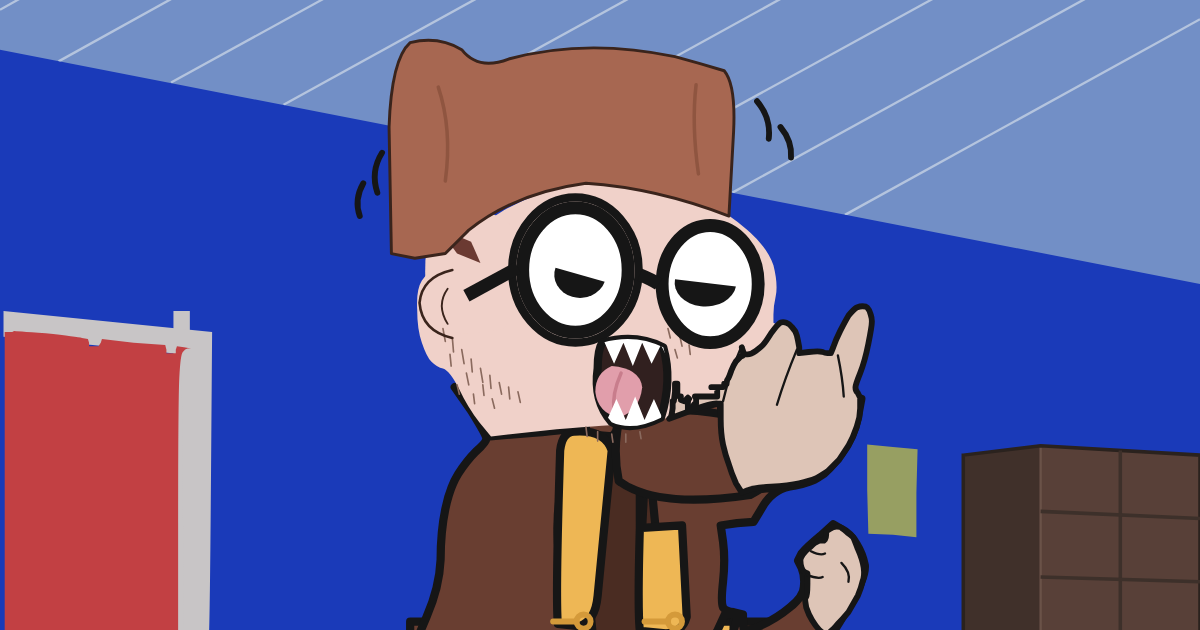
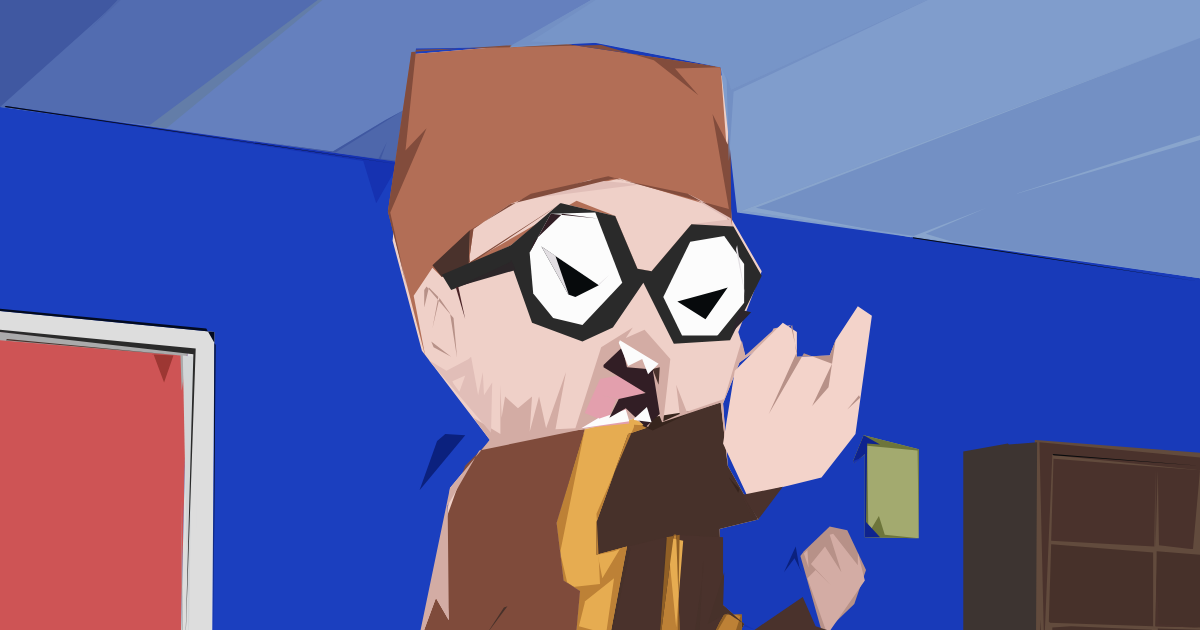
tipsy/ghost: MY.DRAW trace crushed to 9,362 B SVG

diff --git a/tipsy/ghost/index.html b/tipsy/ghost/index.html
@@ -4,18 +4,18 @@
 <meta charset="utf-8">
 <meta name="viewport" content="width=device-width,initial-scale=1">
 <title>Tipsy Turtles_Chapter 2 Snippet — on chain</title>
-<meta name="description" content="Tipsy Turtles_Chapter 2 Snippet redrawn as vector art and stored entirely inside its minting transaction — 14,355 bytes, no IPFS, no gateway.">
+<meta name="description" content="Tipsy Turtles_Chapter 2 Snippet redrawn as vector art and stored entirely inside its minting transaction — 13,695 bytes, no IPFS, no gateway.">
 <link rel="canonical" href="https://beacnpool.github.io/ABCDE/tipsy/ghost/">
 <meta property="og:type" content="website">
 <meta property="og:url" content="https://beacnpool.github.io/ABCDE/tipsy/ghost/">
 <meta property="og:title" content="Tipsy Turtles_Chapter 2 Snippet — on chain">
-<meta property="og:description" content="Tipsy Turtles_Chapter 2 Snippet redrawn as vector art and stored entirely inside its minting transaction — 14,355 bytes, no IPFS, no gateway.">
+<meta property="og:description" content="Tipsy Turtles_Chapter 2 Snippet redrawn as vector art and stored entirely inside its minting transaction — 13,695 bytes, no IPFS, no gateway.">
 <meta property="og:image" content="https://beacnpool.github.io/ABCDE/tipsy/ghost/og.png">
 <meta property="og:image:width" content="1200">
 <meta property="og:image:height" content="630">
 <meta name="twitter:card" content="summary_large_image">
 <meta name="twitter:title" content="Tipsy Turtles_Chapter 2 Snippet — on chain">
-<meta name="twitter:description" content="Tipsy Turtles_Chapter 2 Snippet redrawn as vector art and stored entirely inside its minting transaction — 14,355 bytes, no IPFS, no gateway.">
+<meta name="twitter:description" content="Tipsy Turtles_Chapter 2 Snippet redrawn as vector art and stored entirely inside its minting transaction — 13,695 bytes, no IPFS, no gateway.">
 <meta name="twitter:image" content="https://beacnpool.github.io/ABCDE/tipsy/ghost/og.png">
 <style>
 *{box-sizing:border-box}
@@ -100,7 +100,7 @@ footer{margin-top:44px;padding-top:16px;border-top:1px solid var(--line);
      <code>ipfs://QmZM9p5Kgqtj…</code> — and a pointer is only as permanent as
      whoever keeps paying to pin it.</p>
   <p class="sub">On the right is the same frame redrawn as vector art and written
-     <b>into the minting transaction itself</b>: 9,863 bytes of SVG, no gateway,
+     <b>into the minting transaction itself</b>: 9,362 bytes of SVG, no gateway,
      no pin, no bill.</p>
 
   <div class="vs">
@@ -123,9 +123,9 @@ footer{margin-top:44px;padding-top:16px;border-top:1px solid var(--line);
         <span class="tag chain">stored on Cardano</span><br>
         <b>Ours.</b> Decoded from the same base64 string that rides in the transaction
         below. Nothing was fetched to draw it.
-        <div class="bar"><i style="width:87.6%"></i></div>
-        <span style="color:var(--dim)">14,355 of 16,384 bytes
-        &middot; 88% of one transaction</span>
+        <div class="bar"><i style="width:83.6%"></i></div>
+        <span style="color:var(--dim)">13,695 of 16,384 bytes
+        &middot; 84% of one transaction</span>
       </div>
     </div>
   </div>
@@ -157,15 +157,15 @@ footer{margin-top:44px;padding-top:16px;border-top:1px solid var(--line);
     <tr><td>closes</td><td>24 Aug 2026 13:04 UTC</td></tr>
     <tr><td>asset name</td><td><code>GHOST&lt;8 hex&gt;</code> — derived from the
         UTxO you spend, so every mint is a distinct token</td></tr>
-    <tr><td>image</td><td><code>9,863 bytes</code> of SVG, base64 in CIP-25 metadata</td></tr>
-    <tr><td>you pay</td><td><b>~0.79 ADA</b> network fee, plus
+    <tr><td>image</td><td><code>9,362 bytes</code> of SVG, base64 in CIP-25 metadata</td></tr>
+    <tr><td>you pay</td><td><b>~0.76 ADA</b> network fee, plus
         <b>~1.18 ADA</b> min-UTxO that stays in your wallet</td></tr>
     <tr><td>creator takes</td><td><b>nothing</b> — there is no payment address in this
         transaction</td></tr>
   </table>
 
   <h2>How faithful this one is</h2>
-  <p class="sub">The hardest of the three. The bird is constructed (middle finger up, knuckles on the fist), not traced; temple hair, clipped pupils, clean hat. The silhouettes were traced from the colour regions of
+  <p class="sub">Traced from their frame in MY.DRAW, then crushed 110 KB → 9.4 KB so the transaction still fits. Same pose; the outlines are faceted on purpose. The silhouettes were traced from the colour regions of
      the original and simplified until they fit the budget; the linework was rebuilt. Held
      beside the original at full size the differences are visible — that is the honest
      trade for a picture that never needs anything else to survive.</p>
@@ -190,7 +190,7 @@ footer{margin-top:44px;padding-top:16px;border-top:1px solid var(--line);
     transaction · <a href="../">all three frames</a></footer>
 
 </div>
-<script id="art-src" type="image/svg+xml"><svg xmlns="http://www.w3.org/2000/svg" viewBox="0 0 1024 576"><defs><clipPath id="cc"><path d="M0 0h1024v262L0 62z"/></clipPath><path id="fp" d="M506 174Q507 173 526 174Q544 174 568 180Q592 187 606 194Q620 201 638 216Q655 231 660 246Q664 262 662 272Q660 281 660 288L660 295L662 296L664 296L664 346L663 396L644 400L625 405L625 414L625 422L621 410Q617 397 616 381L615 365L608 365Q600 365 575 374Q550 384 540 382Q531 381 475 386L419 392L409 380Q399 367 392 352Q384 336 378 334Q373 333 368 328Q364 324 360 312Q356 301 356 284Q355 267 360 259Q366 251 368 250L369 248L376 257L383 266L390 266Q397 266 402 262Q408 257 408 250L408 243L404 242L400 242L403 228Q406 213 430 199Q455 185 480 180Q506 174 506 174Z"/><path id="mp" d="M514 312Q542 304 566 316Q574 344 564 376Q540 388 522 380Q506 362 510 334Q510 318 514 312Z"/><clipPath id="mc"><use href="#mp"/></clipPath><clipPath id="ll"><ellipse cx="491" cy="250" rx="42" ry="50"/></clipPath><clipPath id="rl"><ellipse cx="606" cy="262" rx="38" ry="47"/></clipPath></defs><path d="M0 0h1024v576H0z" fill="#1a3ab9"/><path d="M0 566h181v10H0z" fill="#c8c5c6"/><path d="M0 566h152v10H0z" fill="#c24043"/><path d="M148 285h14v290h-14z" fill="#c8c5c6"/><path d="M0 0h1024v262L0 62z" fill="#728fc6"/><g fill="none" stroke="#b4c4de" stroke-width="2" clip-path="url(#cc)"><path d="M0 28 50 0"/><path d="M50 72 180 0"/><path d="M146 90 310 0"/><path d="M242 109 440 0"/><path d="M337 128 570 0"/><path d="M433 147 700 0"/><path d="M529 165 830 0"/><path d="M625 184 960 0"/><path d="M721 203 1024 36"/></g><path d="M3 286L3 285L92 294L181 303L180 432Q179 562 178 567L178 572L168 572L157 572L156 447L155 322L79 314L3 307L3 296Q3 286 3 286Z" fill="#c8c5c6"/><path d="M12 302Q12 302 39 304Q66 307 70 308L75 309L76 312L76 315L80 315L84 315L86 312L87 309L114 312L141 314L142 318L142 321L146 321L150 321L150 318L151 315L157 316L163 317L160 317Q158 317 156 320Q154 322 153 342Q152 362 152 466L152 571L78 571L4 571L4 437L4 303L8 303Q11 303 12 302Z" fill="#c24043"/><path d="M822 408 888 400 888 576 822 576Z" fill="#40302a"/><path d="M888 400 1024 408 1024 576 888 576Z" fill="#584038"/><path d="M888 400 888 576" fill="none" stroke="#6a5248" stroke-width="2"/><path d="M822 408 888 400 1024 408 1024 576 822 576Z" fill="none" stroke="#2a221e" stroke-width="3"/><g fill="none" stroke="#3d302a" stroke-width="3"><path d="M956 404 956 576"/><path d="M888 456 1024 462"/><path d="M888 512 1024 516"/></g><path d="M740 400L740 399L762 401L783 403L782 440L782 478L762 476L741 475L740 438Q740 400 740 400Z" fill="#979f62"/><g stroke="#161616" stroke-width="7" stroke-linejoin="round"><path d="M350 550h138v26H350z" fill="#693e31"/><path d="M486 550h32v26h-32z" fill="#eeb755"/><path d="M516 550h50v26h-50z" fill="#4a2c22"/><path d="M562 550h20v26h-20z" fill="#eeb755"/><path d="M578 550h28v26h-28z" fill="#4a2c22"/><path d="M602 550h28v26h-28z" fill="#eeb755"/><path d="M626 550h76v26h-76z" fill="#4a2c22"/><path d="M518 331L526 320L528 320L531 320L532 326L534 331L540 329L547 327L548 330L549 333L554 331L558 329L560 331Q563 333 564 356L564 378L590 370L615 362L616 380Q616 399 624 419L631 439L658 436Q686 432 694 428Q703 425 716 409Q729 393 732 376L735 360L732 376Q729 392 718 407Q707 422 700 426Q694 431 678 434Q661 436 652 450L643 465L629 466L615 468L617 482Q619 497 617 516Q615 534 617 538Q619 541 626 542L634 544L634 552L635 559L648 554Q662 548 674 538Q686 528 686 520Q687 511 684 504L681 498L684 492Q688 487 700 477L711 467L718 471Q726 475 731 484Q736 492 738 502Q739 513 724 538Q709 564 704 568Q699 572 661 572L623 572L626 558L630 544L624 544L619 543L612 558L605 572L591 572L577 572L576 568L576 563L571 563L566 563L565 568L564 572L540 572L517 572L520 546L524 521L520 521Q516 521 506 523L496 525L494 539L493 553L500 552L506 552L507 556L508 560L500 562L491 564L490 568L489 572L421 572L353 572L364 546Q375 521 376 497Q376 473 380 454Q384 435 391 424Q398 413 406 405Q415 397 415 394Q415 391 402 370L388 350L403 371L418 392L454 389Q491 386 492 384L493 383L496 384L499 386L489 410Q479 435 477 449Q475 463 476 482Q477 502 481 512L485 523L499 522L513 521L513 517L513 513L518 511Q523 509 526 499L530 489L519 490L508 491L511 464Q514 438 525 414Q536 390 546 387L555 384L554 378L553 371L545 375L537 379L536 374L535 370L528 373L520 376L524 368L527 360L536 362L545 364L548 361L551 358L550 352Q549 347 543 343Q537 339 523 340L509 342L518 331Z" fill="#693e31"/><path d="M500 378Q513 374 526 380Q528 388 522 392L500 390Z" fill="#693e31"/><path d="M508 394L552 394 560 476 550 562 506 564 498 478Z" fill="#4a2c22"/><path d="M490 388Q516 386 522 404L510 528Q508 550 494 554L476 552Q474 528 478 404Q480 388 490 388Z" fill="#eeb755"/><path d="M546 392L574 394 572 432 550 430 548 470L582 468 586 546Q582 560 568 560L546 558Q544 540 546 470Z" fill="#eeb755"/><g fill="none" stroke="#d49a3a" stroke-width="5" stroke-linecap="round"><path d="M472 550h20"/><circle cx="498" cy="550" r="6"/></g><g fill="none" stroke="#d49a3a" stroke-width="5" stroke-linecap="round"><path d="M550 550h20"/><circle cx="576" cy="550" r="6"/></g><path d="M530 372Q620 362 668 392Q676 424 640 442Q560 454 528 430Q522 400 530 372Z" fill="#693e31"/><use href="#fp" fill="#f0d1c9" stroke="none"/><path d="M370 200Q358 240 366 290Q380 312 430 300Q452 268 444 220Q420 190 370 200Z" fill="#f0d1c9" stroke="none"/><ellipse cx="491" cy="250" rx="54" ry="62" fill="#f0d1c9"/><path d="M374 214L402 226 410 244 390 236Z" fill="#6b3a32" stroke="none"/><path d="M378 300l2 11M386 308l1 12M394 318l2 12M402 326l1 11M410 334l2 12M418 340l1 11M426 346l2 10M434 350l1 10M442 354l2 9M384 322l1 10M398 338l2 10M412 348l1 9M390 348l2 8M404 356l1 8M420 360l2 8M500 384l1 8M510 388l0 8M522 390l1 7M534 390l0 7M546 388l1 6M570 300l2 8M580 306l2 9M588 314l1 8M576 318l2 7" fill="none" stroke="#8a6a5e" stroke-width="1.4" stroke-linecap="round"/><path d="M514 312Q542 304 566 316Q574 344 564 376Q540 388 522 380Q506 362 510 334Q510 318 514 312Z" fill="#31201f"/><path d="M522 332Q546 334 548 350Q546 370 528 376Q510 372 508 354Q508 338 522 332Z" fill="#e19eab" stroke="none"/><path d="M530 338Q522 356 524 370" fill="none" stroke="#c87d8c" stroke-width="3" stroke-linecap="round"/><g clip-path="url(#mc)"><path d="M516 312 524 330 532 312 540 332 548 312 556 330 564 314 570 326 572 308 514 306Z" fill="#fff" stroke="none"/><path d="M518 378 526 360 534 378 542 358 550 378 558 360 566 378 570 368 570 384 516 384Z" fill="#fff" stroke="none"/></g></g><path d="M334 236L332 128Q334 70 350 56Q374 50 394 62Q408 80 434 70Q500 52 576 68Q598 74 618 80Q628 92 626 132L622 204Q560 180 500 176Q440 184 400 216L380 236 354 240 334 236Z" fill="#a76751" stroke="#3a241c" stroke-width="2.5" stroke-linejoin="round"/><g fill="none" stroke="#8f5540" stroke-width="3" stroke-linecap="round"><path d="M374 94q12 36 6 80"/><path d="M594 92q-4 34 2 76"/></g><path d="M386 250Q360 256 358 278Q360 302 386 308" fill="none" stroke="#3a241c" stroke-width="2.2" stroke-linecap="round"/><g fill="none" stroke="#3a241c" stroke-width="1.6" stroke-linecap="round"><path d="M382 266Q372 280 382 296"/></g><ellipse cx="491" cy="250" rx="44" ry="52" fill="#fff"/><ellipse cx="606" cy="262" rx="40" ry="49" fill="#fff"/><g clip-path="url(#ll)" fill="#161616" stroke="none"><path d="M474 248A20 18 0 0 0 516 260Z"/></g><g clip-path="url(#rl)" fill="#161616" stroke="none"><path d="M576 258A26 20 0 0 0 628 264Z"/></g><g fill="none" stroke="#161616" stroke-width="11"><ellipse cx="491" cy="250" rx="45" ry="53"/><ellipse cx="606" cy="262" rx="41" ry="50"/><path d="M546 254q10 4 16 8"/><path d="M442 248 398 272"/></g><path d="M731 282Q734 281 736 281Q739 281 740 282Q742 284 743 288Q744 291 744 294Q744 298 741 313Q738 328 734 338Q730 348 730 350Q730 353 732 355Q733 357 734 359Q734 361 734 368Q734 376 731 384Q728 393 724 400Q720 406 716 412Q711 417 706 422Q700 426 696 428Q691 430 682 432Q673 434 658 435Q642 436 638 438L633 440L628 432Q624 423 622 416Q619 408 617 399Q615 390 615 377L615 364L612 364Q609 363 590 370L571 377L572 376Q573 375 574 368L574 362L574 362L575 362L576 354L576 347L577 347L578 347L578 352L578 357L580 358L581 358L581 360L581 361L584 362L586 362L586 360L587 359L588 360L588 360L588 360Q587 361 587 365L587 369L590 369L592 369L592 367L592 365L593 364L594 364L594 361L594 358L594 358L593 358L602 358L612 358L612 354L612 351L610 350L607 350L612 350L617 350L618 348L618 347L619 347L620 347L620 346Q620 344 621 343Q622 342 624 336Q626 331 628 328Q631 325 632 324L634 323L634 320L633 316L634 319L635 322L638 322Q641 322 645 319Q649 316 651 314Q653 312 658 304Q664 296 666 295Q668 294 671 295Q674 296 676 299Q679 302 680 306Q681 310 682 316L682 321L690 320Q699 319 702 320Q704 321 706 321L709 321L711 316Q713 310 717 302Q721 294 724 289Q728 284 731 282Z" fill="#dec5b7" stroke="#161616" stroke-width="5" stroke-linejoin="round"/><g fill="none" stroke="#161616" stroke-width="2" stroke-linecap="round"><path d="M632 317Q622 340 617 362"/><path d="M680 318Q670 342 663 365"/><path d="M715 323Q719 342 720 358"/></g><path d="M708 471Q711 469 714 469Q717 469 718 470Q720 471 723 474Q726 476 728 478Q729 480 732 488Q736 497 737 504Q738 511 736 516Q735 521 732 528Q728 535 724 542Q719 548 715 552Q711 557 708 559L706 561L704 560Q702 560 699 557Q696 554 693 549Q690 544 688 538Q687 532 687 531Q687 530 688 529Q689 528 689 518L689 509L687 508Q685 507 684 504Q683 501 683 498Q683 496 685 493Q687 490 692 486Q696 482 697 482Q698 481 700 481L703 481L704 480Q705 478 705 476L705 473L708 471Z" fill="#dec5b7" stroke="#161616" stroke-width="5" stroke-linejoin="round"/><g fill="none" stroke="#161616" stroke-width="2" stroke-linecap="round"><path d="M692 490q8 4 12 2"/><path d="M688 510q10 4 14 2"/><path d="M718 500q8 8 6 16"/></g><g fill="none" stroke="#161616" stroke-width="5" stroke-linecap="round"><path d="M326 150q-10 16-4 34"/><path d="M310 176q-8 14-3 28"/><path d="M646 106q12 14 10 32"/><path d="M666 128q10 12 9 26"/></g></svg></script>
+<script id="art-src" type="image/svg+xml"><svg xmlns="http://www.w3.org/2000/svg" viewBox="0 0 1024 576"><path d="M0 0L1024 0L1024 576L0 576L0 0Z" fill="#183ab9"/><path d="M0 0L539 0L438 60L351 66L335 225L360 319L418 395L384 436L375 521L352 576L0 576L0 0Z" fill="#1b3fbf"/><path d="M0 0L539 0L438 60L355 61L341 158L0 111L0 0Z" fill="#6580be"/><path d="M0 0L299 0L130 127L0 111L0 0Z" fill="#526cb0"/><path d="M0 0L124 0L0 111L0 0Z" fill="#4058a1"/><path d="M79 0L124 0L76 45L118 1L79 1L79 0ZM344 114L341 158L225 141L284 149L329 122L344 114Z" fill="#4e67ab"/><path d="M344 114L286 150L323 155L330 141L325 155L341 157L343 142L341 158L225 141L284 149L329 122L344 114Z" fill="#4058a1"/><path d="M299 0L142 129L127 127L296 1L299 0Z" fill="#637da8"/><path d="M286 147L300 139L286 147Z" fill="#89a5cd"/><path d="M0 303L160 319L154 576L0 576L0 303Z" fill="#ce5455"/><path d="M0 303L160 319L155 353L154 323L0 310L0 303Z" fill="#aaaaab"/><path d="M6 309L154 323L5 310L6 309ZM154 329L154 576L154 335L154 329Z" fill="#4a322c"/><path d="M129 322L148 323L140 346L131 322L129 322Z" fill="#9d3733"/><path d="M0 285L183 303L181 576L154 576L160 319L0 303L0 285Z" fill="#ddd"/><path d="M156 323L165 324L161 574L156 323L156 323Z" fill="#d2d5d7"/><path d="M155 561L155 446L156 562L155 561Z" fill="#aaaaab"/><path d="M0 301L167 317L158 576L165 322L0 303L0 301Z" fill="#2a2a2a"/><path d="M158 576L162 560L164 576L158 576ZM167 317L168 576L167 323L167 317Z" fill="#aaaaab"/><path d="M5 110L341 158L321 193L310 157L4 111L5 110Z" fill="#1632b1"/><path d="M5 110L341 160L4 111L5 110Z" fill="#070a0c"/><path d="M0 283L176 300L184 314L182 562L183 303L0 285L0 283Z" fill="#030b20"/><path d="M380 390L397 391L358 438L373 396L380 390Z" fill="#0b217e"/><path d="M476 56L620 85L624 206L650 251L630 303L636 323L675 297L631 329L617 364L621 417L647 463L614 471L617 536L635 552L623 576L352 576L375 521L384 436L418 395L360 319L335 225L351 66L468 56L476 56Z" fill="#efd0c8"/><path d="M476 56L615 77L625 214L590 211L556 251L544 249L525 204L479 193L436 229L377 256L369 248L353 272L363 324L331 200L351 66L468 56L476 56Z" fill="#b26e56"/><path d="M445 190L529 172L616 198L625 214L590 211L556 251L544 249L525 204L492 191L400 244L404 215L435 194L445 190Z" fill="#efd0c8"/><path d="M445 190L504 173L546 177L444 190L445 190ZM587 185L623 203L625 214L590 211L622 207L587 186L587 185Z" fill="#e1beb8"/><path d="M623 97L624 206L587 185L524 172L435 194L404 215L400 244L479 193L401 245L401 216L453 185L519 170L622 198L608 117L621 143L623 99L623 97ZM476 56L615 77L576 78L596 101L558 71L513 58L355 62L346 148L364 129L333 201L347 264L331 200L351 64L468 56L476 56Z" fill="#824c3c"/><path d="M401 216L400 245L377 256L369 246L400 217L401 216Z" fill="#4a322c"/><path d="M593 370L615 363L621 417L647 463L614 471L617 536L635 552L623 576L466 568L492 557L495 524L481 515L475 466L497 390L587 372L593 370Z" fill="#47312a"/><path d="M541 377L557 383L536 390L509 465L509 493L535 486L518 576L487 576L491 563L466 568L492 557L495 524L481 515L475 466L499 386L540 377L541 377Z" fill="#e6ac51"/><path d="M541 382L557 383L536 390L509 465L509 493L535 486L518 576L487 576L491 563L466 568L492 557L495 524L481 515L475 466L499 386L478 491L485 521L512 518L509 458L541 384L541 382Z" fill="#bd8136"/><path d="M499 533L524 513L515 576L491 576L512 559L494 554L499 534L499 533ZM529 488L514 513L510 493L524 490L529 488Z" fill="#e6ac51"/><path d="M541 377L519 383L540 377L541 377Z" fill="#e2dee2"/><path d="M577 476L617 478L617 536L635 552L623 576L562 576L575 476L577 476Z" fill="#4a322c"/><path d="M577 476L580 558L593 559L578 576L562 576L575 476L577 476Z" fill="#bd8136"/><path d="M569 478L583 481L577 555L570 484L569 478Z" fill="#e6ac51"/><path d="M577 476L580 558L593 559L578 576L580 476L569 478L562 576L575 476L577 476Z" fill="#905f25"/><path d="M618 544L633 544L633 562L623 576L602 576L614 551L618 544Z" fill="#bd8136"/><path d="M618 544L633 544L633 562L622 576L632 545L621 543L602 576L614 551L618 544Z" fill="#905f25"/><path d="M600 498L596 576L578 576L593 559L600 508L600 498ZM618 544L604 552L618 508L617 536L635 552L621 543L618 544Z" fill="#47312a"/><path d="M536 486L568 478L562 576L519 576L538 488L536 486Z" fill="#4a322c"/><path d="M560 375L593 370L557 387L548 383L559 374L560 375Z" fill="#37251d"/><path d="M559 374L548 383L559 375L559 374Z" fill="#e2dee2"/><path d="M635 443L644 465L634 444L635 443Z" fill="#4a322c"/><path d="M630 440L622 427L631 437L630 440Z" fill="#37251d"/><path d="M479 193L525 204L544 249L556 251L590 211L626 213L650 255L623 310L575 313L549 261L523 299L497 311L454 295L437 247L385 267L377 254L436 229L478 193L479 193Z" fill="#2a2a2a"/><path d="M612 306L582 306L566 273L589 226L618 221L635 245L635 278L613 305L612 306Z" fill="#fcfcfc"/><path d="M621 265L602 292L578 277L614 267L621 265Z" fill="#070a0c"/><path d="M632 284L641 286L624 304L631 285L632 284Z" fill="#2c252c"/><path d="M629 229L636 273L628 232L629 229Z" fill="#e2dee2"/><path d="M436 241L440 250L391 264L436 243L436 241Z" fill="#2c2629"/><path d="M452 235L470 202L508 201L531 261L497 297L472 291L455 270L452 236L452 235Z" fill="#fcfcfc"/><path d="M452 235L470 202L510 206L480 202L456 225L452 235Z" fill="#321e25"/><path d="M485 271L462 230L511 263L491 273L485 271Z" fill="#070a0c"/><path d="M485 271L462 230L509 261L474 238L485 270L485 271ZM511 262L520 254L511 263L511 262Z" fill="#e2dee2"/><path d="M355 576L372 530L383 549L378 470L397 417L419 395L499 386L475 466L481 515L495 524L492 557L465 566L491 563L487 576L355 576Z" fill="#7f4b3b"/><path d="M433 537L415 561L430 538L433 537Z" fill="#47312a"/><path d="M660 300L675 297L631 329L617 364L621 417L615 363L565 380L561 370L553 384L541 377L409 404L382 451L383 549L372 530L355 576L384 436L418 395L404 376L427 390L427 348L428 376L431 358L442 368L454 358L452 388L460 358L466 385L483 337L474 386L491 385L513 316L540 299L534 308L550 301L572 326L566 379L580 373L577 348L586 371L618 360L633 310L636 323L659 302L660 300Z" fill="#d3aca4"/><path d="M511 377L499 372L512 343L533 339L550 354L545 364L513 357L526 360L519 377L534 368L537 381L496 385L511 376L511 377Z" fill="#e39fad"/><path d="M511 377L534 369L537 379L496 385L511 376L511 377Z" fill="#fcfcfc"/><path d="M515 331L531 316L535 333L557 335L563 373L551 384L534 368L520 376L528 360L551 355L515 333L515 331Z" fill="#321e25"/><path d="M541 377L552 367L556 380L541 378L541 377Z" fill="#fcfcfc"/><path d="M555 335L563 333L562 348L557 335L555 335Z" fill="#4a322c"/><path d="M529 310L562 330L553 339L548 326L536 332L528 312L529 310Z" fill="#fcfcfc"/><path d="M402 324L408 357L412 337L413 357L420 346L419 389L366 327L381 336L400 326L402 324Z" fill="#e1beb8"/><path d="M386 345L397 340L392 354L387 347L386 345Z" fill="#efd0c8"/><path d="M391 264L397 292L389 265L391 264Z" fill="#492225"/><path d="M364 264L387 291L390 325L384 287L375 274L369 300L374 273L366 265L362 282L362 267L364 264ZM368 311L385 324L370 316L368 311Z" fill="#b79188"/><path d="M539 0L1024 0L1024 257L629 201L615 77L502 55L435 60L537 1L539 0Z" fill="#809dcc"/><path d="M631 200L1024 52L1024 257L638 200L631 200Z" fill="#7390c4"/><path d="M631 200L1024 52L645 197L777 222L842 197L790 219L816 227L638 200L631 200ZM1024 139L864 186L1024 135L1024 139Z" fill="#89a5cd"/><path d="M539 0L833 0L624 96L615 77L510 56L435 60L537 1L539 0Z" fill="#7795c8"/><path d="M539 0L453 55L476 56L435 59L537 1L539 0ZM833 0L626 98L622 157L620 85L624 96L831 1L833 0Z" fill="#7390c4"/><path d="M884 395L1024 406L1024 576L884 576L883 395L884 395Z" fill="#624b3d"/><path d="M1016 488L989 485L988 421L986 487L986 419L985 486L897 481L899 411L1024 421L1018 488L1016 488Z" fill="#4a322c"/><path d="M987 490L1024 493L1024 555L986 554L987 495L987 490Z" fill="#47312a"/><path d="M987 508L989 552L1024 555L986 554L987 508ZM898 407L891 572L887 397L1024 410L1024 421L899 408L898 407Z" fill="#4a322c"/><path d="M898 407L1024 417L899 408L898 407Z" fill="#070a0c"/><path d="M898 576L898 555L914 554L983 557L983 576L898 576ZM988 556L1024 557L1024 576L988 576L988 558L988 556ZM887 576L888 548L889 576L887 576ZM895 550L897 484L984 491L984 554L896 551L895 550Z" fill="#47312a"/><path d="M713 310L732 281L744 289L730 390L701 427L661 437L647 463L617 398L627 336L668 295L680 303L680 324L708 323L712 313L713 310Z" fill="#f3d3ca"/><path d="M633 442L668 435L647 463L633 441L633 442Z" fill="#4a322c"/><path d="M676 297L680 324L708 323L713 310L707 350L693 366L710 330L686 321L656 373L680 320L675 298L676 297ZM734 359L723 369L733 357L734 359Z" fill="#b79188"/><path d="M861 399L885 397L884 576L822 576L822 405L860 398L861 399Z" fill="#3d3431"/><path d="M686 490L708 469L723 472L739 506L729 535L702 561L683 494L686 490Z" fill="#b79188"/><path d="M711 475L732 502L732 491L738 515L706 561L689 513L696 506L709 519L692 501L704 486L718 508L708 476L711 475ZM689 489L690 504L686 492L689 489Z" fill="#d3aca4"/><path d="M644 557L685 529L696 554L711 559L704 576L623 576L642 558L644 557Z" fill="#4a322c"/><path d="M779 222L1024 260L779 223L779 222Z" fill="#070a0c"/><path d="M684 508L678 496L669 508L679 486L682 503L684 508Z" fill="#0b217e"/><path d="M635 552L644 557L635 554L635 552Z" fill="#1632b1"/><path d="M728 413L737 391L784 403L784 479L738 478L738 407L729 415L728 413Z" fill="#a3aa6f"/><path d="M728 413L737 391L784 403L784 479L783 404L740 400L741 475L750 460L755 476L784 479L738 478L738 407L729 415L728 413Z" fill="#6d753b"/><path d="M728 413L737 391L751 399L740 398L739 465L751 478L738 478L738 407L729 415L728 413Z" fill="#0e238f"/><path d="M728 413L736 410L729 415L728 413Z" fill="#1632b1"/></svg></script>
 <script type="module">
 const ANCHOR_SLOT = 193727336, ANCHOR_UNIX = 1785293627;
 const DEADLINE_SLOT = 196010382, TICKER = 'GHOST';

diff --git a/tipsy/index.html b/tipsy/index.html
@@ -4,18 +4,18 @@
 <meta charset="utf-8">
 <meta name="viewport" content="width=device-width,initial-scale=1">
 <title>Tipsy Turtles, on chain</title>
-<meta name="description" content="Three Tipsy Turtles frames redrawn as vector art and stored entirely inside their minting transactions — 35.9 kB of chain against 4.1 MB of pinned PNG.">
+<meta name="description" content="Three Tipsy Turtles frames redrawn as vector art and stored entirely inside their minting transactions — 35.2 kB of chain against 4.1 MB of pinned PNG.">
 <link rel="canonical" href="https://beacnpool.github.io/ABCDE/tipsy/">
 <meta property="og:type" content="website">
 <meta property="og:url" content="https://beacnpool.github.io/ABCDE/tipsy/">
 <meta property="og:title" content="Tipsy Turtles, on chain">
-<meta property="og:description" content="Three Tipsy Turtles frames redrawn as vector art and stored entirely inside their minting transactions — 35.9 kB of chain against 4.1 MB of pinned PNG.">
+<meta property="og:description" content="Three Tipsy Turtles frames redrawn as vector art and stored entirely inside their minting transactions — 35.2 kB of chain against 4.1 MB of pinned PNG.">
 <meta property="og:image" content="https://beacnpool.github.io/ABCDE/tipsy/og.png">
 <meta property="og:image:width" content="1200">
 <meta property="og:image:height" content="630">
 <meta name="twitter:card" content="summary_large_image">
 <meta name="twitter:title" content="Tipsy Turtles, on chain">
-<meta name="twitter:description" content="Three Tipsy Turtles frames redrawn as vector art and stored entirely inside their minting transactions — 35.9 kB of chain against 4.1 MB of pinned PNG.">
+<meta name="twitter:description" content="Three Tipsy Turtles frames redrawn as vector art and stored entirely inside their minting transactions — 35.2 kB of chain against 4.1 MB of pinned PNG.">
 <meta name="twitter:image" content="https://beacnpool.github.io/ABCDE/tipsy/og.png">
 <style>
 *{box-sizing:border-box}
@@ -112,7 +112,7 @@ footer{margin-top:44px;padding-top:16px;border-top:1px solid var(--line);
      it. Each of these is the same frame redrawn as vector art and written
      <b>into the minting transaction itself</b>. No gateway, no pin, no bill.</p>
   <p class="sub">Together that is <b>4.1 MB</b> of pinned PNG on one side
-     and <b>35.9 kB</b> of transaction on the other. Open any of them: the
+     and <b>35.2 kB</b> of transaction on the other. Open any of them: the
      left panel is fetched live from your gateway, the right is decoded from the chain.</p>
 
   <div class="cards">
@@ -127,9 +127,9 @@ footer{margin-top:44px;padding-top:16px;border-top:1px solid var(--line);
       <a class="card" href="ghost/">
         <span class="frame"><img src="ghost/ghost.svg"
               alt="Tipsy Turtles_Chapter 2 Snippet" loading="lazy"></span>
-        <span class="meta"><b>Tipsy Turtles_Chapter 2 Snippet</b>The hardest of the three. The bird is constructed (middle finger up, knuckles on the fist), not traced; temple hair, clipped pupils, clean hat.
+        <span class="meta"><b>Tipsy Turtles_Chapter 2 Snippet</b>Traced from their frame in MY.DRAW, then crushed 110 KB → 9.4 KB so the transaction still fits. Same pose; the outlines are faceted on purpose.
           <span class="ratio"><span>their PNG <b>1.49 MB</b></span>
-          <span>our transaction <b>14.4 kB</b></span></span>
+          <span>our transaction <b>13.7 kB</b></span></span>
         </span>
       </a>
       <a class="card" href="vote/">
